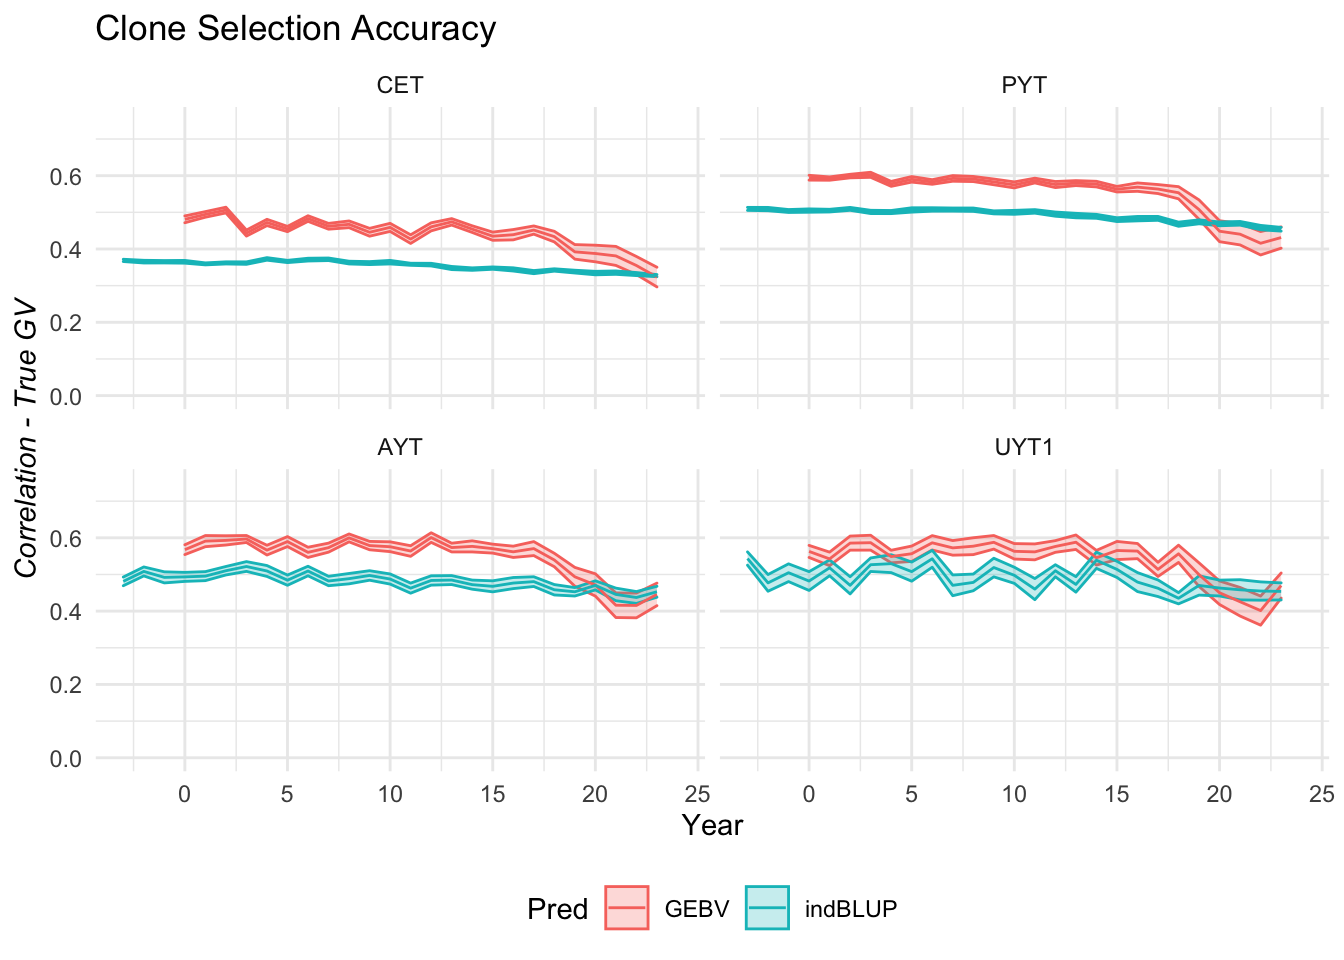
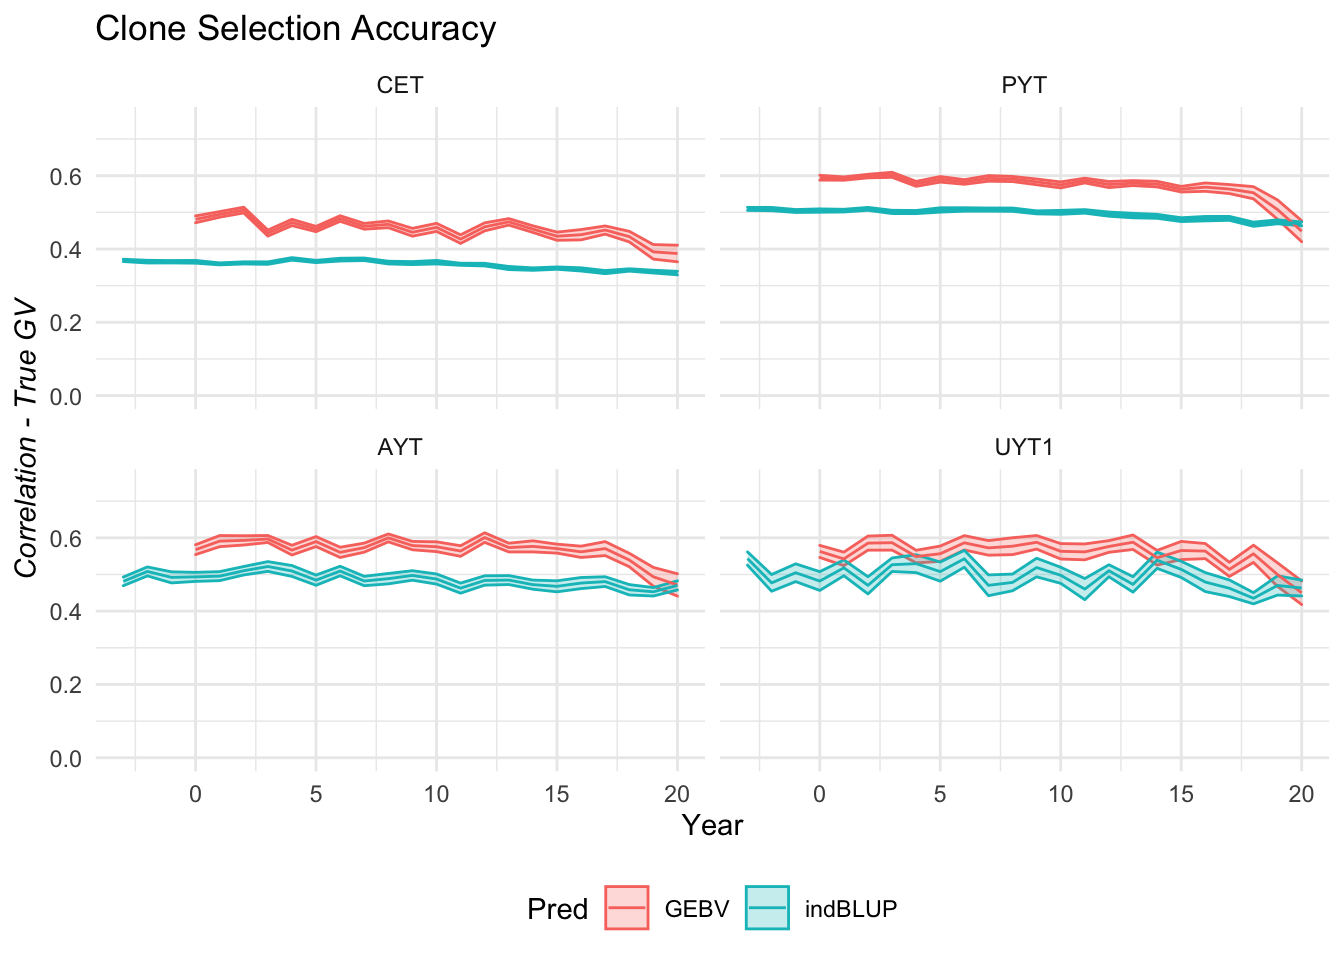
update script for the graphs

diff --git a/docs/VD_Optimization.html b/docs/VD_Optimization.html
@@ -428,7 +428,7 @@ div.tocify {
 <div class="tab-content">
 <div id="summary" class="tab-pane fade in active">
 <p>
-<strong>Last updated:</strong> 2022-06-17
+<strong>Last updated:</strong> 2022-06-29
 </p>
 <p>
 <strong>Checks:</strong> <span class="glyphicon glyphicon-ok text-success" aria-hidden="true"></span> 6 <span class="glyphicon glyphicon-exclamation-sign text-danger" aria-hidden="true"></span> 1
@@ -519,16 +519,16 @@ This reproducible <a href="https://rmarkdown.rstudio.com">R Markdown</a> analysi
 <div class="panel panel-default">
 <div class="panel-heading">
 <p class="panel-title">
-<a data-toggle="collapse" data-parent="#workflowr-checks" href="#strongRepositoryversionstrongahrefhttpsgithubcomLucianoRogerioCassavaBreedingSimtreee9e11cdec5f778982d9bcab7d2720d18ca3455d2targetblanke9e11cda"> <span class="glyphicon glyphicon-ok text-success" aria-hidden="true"></span> <strong>Repository version:</strong> <a href="https://github.com/LucianoRogerio/CassavaBreedingSim/tree/e9e11cdec5f778982d9bcab7d2720d18ca3455d2" target="_blank">e9e11cd</a> </a>
+<a data-toggle="collapse" data-parent="#workflowr-checks" href="#strongRepositoryversionstrongahrefhttpsgithubcomLucianoRogerioCassavaBreedingSimtree392b5923671da4e54f0bdf135c3c9c689f458655targetblank392b592a"> <span class="glyphicon glyphicon-ok text-success" aria-hidden="true"></span> <strong>Repository version:</strong> <a href="https://github.com/LucianoRogerio/CassavaBreedingSim/tree/392b5923671da4e54f0bdf135c3c9c689f458655" target="_blank">392b592</a> </a>
 </p>
 </div>
[2 lines of base64/hex data omitted]
 <div class="panel-body">
 <p>
 Great! You are using Git for version control. Tracking code development and connecting the code version to the results is critical for reproducibility.
 </p>
 <p>
-The results in this page were generated with repository version <a href="https://github.com/LucianoRogerio/CassavaBreedingSim/tree/e9e11cdec5f778982d9bcab7d2720d18ca3455d2" target="_blank">e9e11cd</a>. See the <em>Past versions</em> tab to see a history of the changes made to the R Markdown and HTML files.
+The results in this page were generated with repository version <a href="https://github.com/LucianoRogerio/CassavaBreedingSim/tree/392b5923671da4e54f0bdf135c3c9c689f458655" target="_blank">392b592</a>. See the <em>Past versions</em> tab to see a history of the changes made to the R Markdown and HTML files.
 </p>
 <p>
 Note that you need to be careful to ensure that all relevant files for the analysis have been committed to Git prior to generating the results (you can use <code>wflow_publish</code> or <code>wflow_git_commit</code>). workflowr only checks the R Markdown file, but you know if there are other scripts or data files that it depends on. Below is the status of the Git repository when the results were generated:
@@ -542,27 +542,10 @@ Ignored files:
     Ignored:    output/.Rhistory
     Ignored:    output/DataSimPlotIITA1_3_Par.rds
 
-Untracked files:
-    Untracked:  output/DataSimPlotIITA1_3_AccCl.rds
-    Untracked:  output/DataSimPlotIITA1_3_AccPg.rds
-    Untracked:  output/Figures/AccuracyCl.tiff
-
 Unstaged changes:
     Modified:   analysis/BurnIn_IITA.Rmd
-    Modified:   analysis/IITABS.Rmd
     Modified:   analysis/VD_Optimization.Rmd
-    Modified:   analysis/graphics.Rmd
-    Deleted:    output/DataSimPlotIITA1_3_Acc.rds
-    Modified:   output/DataSimPlotIITA1_3_F1.rds
-    Modified:   output/DataSimPlotIITA1_3_UYT2.rds
-    Modified:   output/Figures/Accuracy.tiff
-    Modified:   output/Figures/F1 graph 1 to 3.tiff
-    Modified:   output/Figures/UYT2 graph 1 to 3.tiff
-    Deleted:    output/ParentOriginGS_1Yr.csv
-    Deleted:    output/ParentOriginGS_2Yrs.csv
-    Deleted:    output/ParentOriginGS_3Yrs.csv
-    Deleted:    output/ParentOriginPS.csv
-    Deleted:    output/ParentOriginPSPlus.csv
+    Modified:   code/runSchemesPostBurnIn.R
 
 </code></pre>
 <p>
@@ -601,6 +584,40 @@ Message
 </tr>
 </thead>
 <tbody>
+<tr>
+<td>
+Rmd
+</td>
+<td>
+<a href="https://github.com/LucianoRogerio/CassavaBreedingSim/blob/94fd215b6753b669d435f3e10f299fe9bb5b0ee5/analysis/VD_Optimization.Rmd" target="_blank">94fd215</a>
+</td>
+<td>
+LucianoRogerio
+</td>
+<td>
+2022-06-26
+</td>
+<td>
+Update Simulation results
+</td>
+</tr>
+<tr>
+<td>
+html
+</td>
+<td>
+<a href="https://rawcdn.githack.com/LucianoRogerio/CassavaBreedingSim/94fd215b6753b669d435f3e10f299fe9bb5b0ee5/docs/VD_Optimization.html" target="_blank">94fd215</a>
+</td>
+<td>
+LucianoRogerio
+</td>
+<td>
+2022-06-26
+</td>
+<td>
+Update Simulation results
+</td>
+</tr>
 <tr>
 <td>
 Rmd
@@ -1738,7 +1755,7 @@ IITAScheme &lt;- read.table(here::here(&quot;data&quot;, &quot;baselineScheme - 
                          sep = &quot;;&quot;, dec = &quot;.&quot;, header = T)
 IITAScheme %&gt;% reactable()</code></pre>
 <div id="htmlwidget-3624b11195a02e6dab7a" class="reactable html-widget" style="width:auto;height:auto;"></div>
-<script type="application/json" data-for="htmlwidget-3624b11195a02e6dab7a">{"x":{"tag":{"name":"Reactable","attribs":{"data":{"stageNames":["SDN","CET","PYT","AYT","UYT1","UYT2"],"nEntries":[10000,2500,800,80,30,30],"nLocs":[1,1,2,3,5,5],"nReps":[1,1,3,3,3,3],"nChks":[5,5,4,2,2,2],"entryToChkRatio":[1500,50,25,20,20,20],"trainingPopCycles":[20,20,20,20,20,20],"errVars":[10000,3500,2500,2000,1800,1800],"PlantsPerPlot":[1,10,10,25,42,42]},"columns":[{"accessor":"stageNames","name":"stageNames","type":"character"},{"accessor":"nEntries","name":"nEntries","type":"numeric"},{"accessor":"nLocs","name":"nLocs","type":"numeric"},{"accessor":"nReps","name":"nReps","type":"numeric"},{"accessor":"nChks","name":"nChks","type":"numeric"},{"accessor":"entryToChkRatio","name":"entryToChkRatio","type":"numeric"},{"accessor":"trainingPopCycles","name":"trainingPopCycles","type":"numeric"},{"accessor":"errVars","name":"errVars","type":"numeric"},{"accessor":"PlantsPerPlot","name":"PlantsPerPlot","type":"numeric"}],"defaultPageSize":10,"paginationType":"numbers","showPageInfo":true,"minRows":1,"dataKey":"d425645feddce2942941dfc27a950f86"},"children":[]},"class":"reactR_markup"},"evals":[],"jsHooks":[]}</script>
+<script type="application/json" data-for="htmlwidget-3624b11195a02e6dab7a">{"x":{"tag":{"name":"Reactable","attribs":{"data":{"stageNames":["SDN","CET","PYT","AYT","UYT1","UYT2","NCRP"],"nEntries":[10000,2500,800,80,30,30,4],"nLocs":[1,1,2,3,5,5,5],"nReps":[1,1,3,3,3,3,3],"nChks":[5,5,4,2,2,2,2],"entryToChkRatio":[1500,50,25,20,20,20,20],"trainingPopCycles":[20,20,20,20,20,20,20],"errVars":[10000,3500,2500,2000,1800,1800,1800],"PlantsPerPlot":[1,10,10,25,42,42,42]},"columns":[{"accessor":"stageNames","name":"stageNames","type":"character"},{"accessor":"nEntries","name":"nEntries","type":"numeric"},{"accessor":"nLocs","name":"nLocs","type":"numeric"},{"accessor":"nReps","name":"nReps","type":"numeric"},{"accessor":"nChks","name":"nChks","type":"numeric"},{"accessor":"entryToChkRatio","name":"entryToChkRatio","type":"numeric"},{"accessor":"trainingPopCycles","name":"trainingPopCycles","type":"numeric"},{"accessor":"errVars","name":"errVars","type":"numeric"},{"accessor":"PlantsPerPlot","name":"PlantsPerPlot","type":"numeric"}],"defaultPageSize":10,"paginationType":"numbers","showPageInfo":true,"minRows":1,"dataKey":"521030f8fc06593411de1d03db95389f"},"children":[]},"class":"reactR_markup"},"evals":[],"jsHooks":[]}</script>
 <p>Simulations for IITA <a href="IITABS.html">breeding Scheme</a></p>
 </div>
 <div id="iita-1º-alternative-breeding-scheme-five-years-vdp" class="section level3">
@@ -1748,7 +1765,7 @@ IITAScheme &lt;- read.table(here::here(&quot;data&quot;, &quot;baselineScheme - 
                          sep = &quot;;&quot;, dec = &quot;.&quot;, header = T)
 IITAScheme %&gt;% reactable()</code></pre>
 <div id="htmlwidget-5728cd89669a869ad063" class="reactable html-widget" style="width:auto;height:auto;"></div>
-<script type="application/json" data-for="htmlwidget-5728cd89669a869ad063">{"x":{"tag":{"name":"Reactable","attribs":{"data":{"stageNames":["SDN","CET","PYT","AYT","UYT1"],"nEntries":[10208,2604,834,84,32],"nLocs":[1,1,2,3,5],"nReps":[1,1,3,3,3],"nChks":[5,5,4,2,2],"entryToChkRatio":[1500,50,25,20,20],"trainingPopCycles":[20,20,20,20,20],"errVars":[10000,3500,2500,2000,1800],"PlantsPerPlot":[1,10,10,25,42]},"columns":[{"accessor":"stageNames","name":"stageNames","type":"character"},{"accessor":"nEntries","name":"nEntries","type":"numeric"},{"accessor":"nLocs","name":"nLocs","type":"numeric"},{"accessor":"nReps","name":"nReps","type":"numeric"},{"accessor":"nChks","name":"nChks","type":"numeric"},{"accessor":"entryToChkRatio","name":"entryToChkRatio","type":"numeric"},{"accessor":"trainingPopCycles","name":"trainingPopCycles","type":"numeric"},{"accessor":"errVars","name":"errVars","type":"numeric"},{"accessor":"PlantsPerPlot","name":"PlantsPerPlot","type":"numeric"}],"defaultPageSize":10,"paginationType":"numbers","showPageInfo":true,"minRows":1,"dataKey":"7cabb97f79e78960c2d4cd9722da5e5c"},"children":[]},"class":"reactR_markup"},"evals":[],"jsHooks":[]}</script>
+<script type="application/json" data-for="htmlwidget-5728cd89669a869ad063">{"x":{"tag":{"name":"Reactable","attribs":{"data":{"stageNames":["SDN","CET","PYT","AYT","UYT1","NCRP"],"nEntries":[10208,2604,834,84,32,4],"nLocs":[1,1,2,3,5,5],"nReps":[1,1,3,3,3,3],"nChks":[5,5,4,2,2,2],"entryToChkRatio":[1500,50,25,20,20,20],"trainingPopCycles":[20,20,20,20,20,20],"errVars":[10000,3500,2500,2000,1800,1800],"PlantsPerPlot":[1,10,10,25,42,42]},"columns":[{"accessor":"stageNames","name":"stageNames","type":"character"},{"accessor":"nEntries","name":"nEntries","type":"numeric"},{"accessor":"nLocs","name":"nLocs","type":"numeric"},{"accessor":"nReps","name":"nReps","type":"numeric"},{"accessor":"nChks","name":"nChks","type":"numeric"},{"accessor":"entryToChkRatio","name":"entryToChkRatio","type":"numeric"},{"accessor":"trainingPopCycles","name":"trainingPopCycles","type":"numeric"},{"accessor":"errVars","name":"errVars","type":"numeric"},{"accessor":"PlantsPerPlot","name":"PlantsPerPlot","type":"numeric"}],"defaultPageSize":10,"paginationType":"numbers","showPageInfo":true,"minRows":1,"dataKey":"b96e6834d58a8865ba166af0ed744ed9"},"children":[]},"class":"reactR_markup"},"evals":[],"jsHooks":[]}</script>
 <p>Simulations for IITA <a href="NVDP1.html">1º alternative breeding Scheme</a> (Five years VDP)</p>
 </div>
 <div id="iita-breeding-scheme-2º-alternative-four-years-vdp" class="section level3">
@@ -1758,7 +1775,7 @@ IITAScheme &lt;- read.table(here::here(&quot;data&quot;, &quot;baselineScheme - 
                          sep = &quot;;&quot;, dec = &quot;.&quot;, header = T)
 IITAScheme %&gt;% reactable()</code></pre>
 <div id="htmlwidget-6c33c21eda9f1916c957" class="reactable html-widget" style="width:auto;height:auto;"></div>
-<script type="application/json" data-for="htmlwidget-6c33c21eda9f1916c957">{"x":{"tag":{"name":"Reactable","attribs":{"data":{"stageNames":["SDN","CET","PYT","AYT"],"nEntries":[11268,2817,902,90],"nLocs":[1,1,2,3],"nReps":[1,1,3,3],"nChks":[5,5,4,2],"entryToChkRatio":[1500,50,25,20],"trainingPopCycles":[20,20,20,20],"errVars":[10000,3500,2500,2000],"PlantsPerPlot":[1,10,10,25]},"columns":[{"accessor":"stageNames","name":"stageNames","type":"character"},{"accessor":"nEntries","name":"nEntries","type":"numeric"},{"accessor":"nLocs","name":"nLocs","type":"numeric"},{"accessor":"nReps","name":"nReps","type":"numeric"},{"accessor":"nChks","name":"nChks","type":"numeric"},{"accessor":"entryToChkRatio","name":"entryToChkRatio","type":"numeric"},{"accessor":"trainingPopCycles","name":"trainingPopCycles","type":"numeric"},{"accessor":"errVars","name":"errVars","type":"numeric"},{"accessor":"PlantsPerPlot","name":"PlantsPerPlot","type":"numeric"}],"defaultPageSize":10,"paginationType":"numbers","showPageInfo":true,"minRows":1,"dataKey":"740e1aa63b6e38ae4cc1f208983b94cc"},"children":[]},"class":"reactR_markup"},"evals":[],"jsHooks":[]}</script>
+<script type="application/json" data-for="htmlwidget-6c33c21eda9f1916c957">{"x":{"tag":{"name":"Reactable","attribs":{"data":{"stageNames":["SDN","CET","PYT","AYT","NCRP"],"nEntries":[11268,2817,902,90,4],"nLocs":[1,1,2,3,5],"nReps":[1,1,3,3,3],"nChks":[5,5,4,2,2],"entryToChkRatio":[1500,50,25,20,20],"trainingPopCycles":[20,20,20,20,20],"errVars":[10000,3500,2500,2000,1800],"PlantsPerPlot":[1,10,10,25,42]},"columns":[{"accessor":"stageNames","name":"stageNames","type":"character"},{"accessor":"nEntries","name":"nEntries","type":"numeric"},{"accessor":"nLocs","name":"nLocs","type":"numeric"},{"accessor":"nReps","name":"nReps","type":"numeric"},{"accessor":"nChks","name":"nChks","type":"numeric"},{"accessor":"entryToChkRatio","name":"entryToChkRatio","type":"numeric"},{"accessor":"trainingPopCycles","name":"trainingPopCycles","type":"numeric"},{"accessor":"errVars","name":"errVars","type":"numeric"},{"accessor":"PlantsPerPlot","name":"PlantsPerPlot","type":"numeric"}],"defaultPageSize":10,"paginationType":"numbers","showPageInfo":true,"minRows":1,"dataKey":"3f33146cc98fd2cbaf27a2974c29dd90"},"children":[]},"class":"reactR_markup"},"evals":[],"jsHooks":[]}</script>
 <p>Simulations for IITA <a href="NVDP2.html">2º alternative breeding Scheme</a> (Four years VDP)</p>
 </div>
 <div id="simulations-of-iita-breeding-scheme-with-clones-selected-as-parent-from-different-years-as-candidate" class="section level3">
@@ -1825,6 +1842,17 @@ Date
 <tbody>
 <tr>
 <td>
+<a href="https://github.com/LucianoRogerio/CassavaBreedingSim/blob/94fd215b6753b669d435f3e10f299fe9bb5b0ee5/docs/figure/VD_Optimization.Rmd/Figure 1 Parents IITA Breeding Scheme 1 to 3 Yrs-1.png" target="_blank">94fd215</a>
+</td>
+<td>
+LucianoRogerio
+</td>
+<td>
+2022-06-26
+</td>
+</tr>
+<tr>
+<td>
 <a href="https://github.com/LucianoRogerio/CassavaBreedingSim/blob/e9e11cdec5f778982d9bcab7d2720d18ca3455d2/docs/figure/VD_Optimization.Rmd/Figure 1 Parents IITA Breeding Scheme 1 to 3 Yrs-1.png" target="_blank">e9e11cd</a>
 </td>
 <td>
@@ -1886,6 +1914,17 @@ Date
 </tr>
 </thead>
 <tbody>
+<tr>
+<td>
+<a href="https://github.com/LucianoRogerio/CassavaBreedingSim/blob/94fd215b6753b669d435f3e10f299fe9bb5b0ee5/docs/figure/VD_Optimization.Rmd/Origin Parents-1.png" target="_blank">94fd215</a>
+</td>
+<td>
+LucianoRogerio
+</td>
+<td>
+2022-06-26
+</td>
+</tr>
 <tr>
 <td>
 <a href="https://github.com/LucianoRogerio/CassavaBreedingSim/blob/e9e11cdec5f778982d9bcab7d2720d18ca3455d2/docs/figure/VD_Optimization.Rmd/Origin Parents-1.png" target="_blank">e9e11cd</a>
@@ -1995,6 +2034,17 @@ Date
 <tbody>
 <tr>
 <td>
+<a href="https://github.com/LucianoRogerio/CassavaBreedingSim/blob/94fd215b6753b669d435f3e10f299fe9bb5b0ee5/docs/figure/VD_Optimization.Rmd/Figure 1 F1 IITA Breeding Scheme 1 to 3 Yrs-1.png" target="_blank">94fd215</a>
+</td>
+<td>
+LucianoRogerio
+</td>
+<td>
+2022-06-26
+</td>
+</tr>
+<tr>
+<td>
 <a href="https://github.com/LucianoRogerio/CassavaBreedingSim/blob/e9e11cdec5f778982d9bcab7d2720d18ca3455d2/docs/figure/VD_Optimization.Rmd/Figure 1 F1 IITA Breeding Scheme 1 to 3 Yrs-1.png" target="_blank">e9e11cd</a>
 </td>
 <td>
@@ -2067,6 +2117,17 @@ Date
 </tr>
 </thead>
 <tbody>
+<tr>
+<td>
+<a href="https://github.com/LucianoRogerio/CassavaBreedingSim/blob/94fd215b6753b669d435f3e10f299fe9bb5b0ee5/docs/figure/VD_Optimization.Rmd/Figure 1 UYT2 IITA Breeding Scheme 1 to 3 Yrs-1.png" target="_blank">94fd215</a>
+</td>
+<td>
+LucianoRogerio
+</td>
+<td>
+2022-06-26
+</td>
+</tr>
 <tr>
 <td>
 <a href="https://github.com/LucianoRogerio/CassavaBreedingSim/blob/e9e11cdec5f778982d9bcab7d2720d18ca3455d2/docs/figure/VD_Optimization.Rmd/Figure 1 UYT2 IITA Breeding Scheme 1 to 3 Yrs-1.png" target="_blank">e9e11cd</a>
@@ -2142,6 +2203,17 @@ Date
 <tbody>
 <tr>
 <td>
+<a href="https://github.com/LucianoRogerio/CassavaBreedingSim/blob/94fd215b6753b669d435f3e10f299fe9bb5b0ee5/docs/figure/VD_Optimization.Rmd/Accuracies for gebv-1.png" target="_blank">94fd215</a>
+</td>
+<td>
+LucianoRogerio
+</td>
+<td>
+2022-06-26
+</td>
+</tr>
+<tr>
+<td>
 <a href="https://github.com/LucianoRogerio/CassavaBreedingSim/blob/e9e11cdec5f778982d9bcab7d2720d18ca3455d2/docs/figure/VD_Optimization.Rmd/Accuracies for gebv-1.png" target="_blank">e9e11cd</a>
 </td>
 <td>
@@ -2192,6 +2264,17 @@ Date
 </tr>
 </thead>
 <tbody>
+<tr>
+<td>
+<a href="https://github.com/LucianoRogerio/CassavaBreedingSim/blob/94fd215b6753b669d435f3e10f299fe9bb5b0ee5/docs/figure/VD_Optimization.Rmd/Accuracies for gegv-1.png" target="_blank">94fd215</a>
+</td>
+<td>
+LucianoRogerio
+</td>
+<td>
+2022-06-26
+</td>
+</tr>
 <tr>
 <td>
 <a href="https://github.com/LucianoRogerio/CassavaBreedingSim/blob/e9e11cdec5f778982d9bcab7d2720d18ca3455d2/docs/figure/VD_Optimization.Rmd/Accuracies for gegv-1.png" target="_blank">e9e11cd</a>
@@ -2255,17 +2338,17 @@ loaded via a namespace (and not attached):
 [21] httpuv_1.6.5      reactR_0.4.4      pkgconfig_2.0.3   broom_0.8.0      
 [25] haven_2.5.0       scales_1.2.0      whisker_0.4       later_1.3.0      
 [29] tzdb_0.3.0        git2r_0.30.1      generics_0.1.2    farver_2.1.0     
-[33] car_3.0-13        ellipsis_0.3.2    withr_2.5.0       cli_3.3.0        
+[33] car_3.1-0         ellipsis_0.3.2    withr_2.5.0       cli_3.3.0        
 [37] magrittr_2.0.3    crayon_1.5.1      readxl_1.4.0      evaluate_0.15    
 [41] fs_1.5.2          fansi_1.0.3       rstatix_0.7.0     xml2_1.3.3       
 [45] tools_4.1.3       hms_1.1.1         lifecycle_1.0.1   munsell_0.5.0    
-[49] reprex_2.0.1      compiler_4.1.3    jquerylib_0.1.4   rlang_1.0.2      
+[49] reprex_2.0.1      compiler_4.1.3    jquerylib_0.1.4   rlang_1.0.3      
 [53] grid_4.1.3        rstudioapi_0.13   htmlwidgets_1.5.4 crosstalk_1.2.0  
 [57] labeling_0.4.2    rmarkdown_2.14    gtable_0.3.0      abind_1.4-5      
-[61] DBI_1.1.2         R6_2.5.1          gridExtra_2.3     lubridate_1.8.0  
+[61] DBI_1.1.3         R6_2.5.1          gridExtra_2.3     lubridate_1.8.0  
 [65] knitr_1.39        fastmap_1.1.0     utf8_1.2.2        workflowr_1.7.0  
 [69] rprojroot_2.0.3   stringi_1.7.6     Rcpp_1.0.8.3      vctrs_0.4.1      
-[73] dbplyr_2.2.0      tidyselect_1.1.2  xfun_0.31        </code></pre>
+[73] dbplyr_2.2.1      tidyselect_1.1.2  xfun_0.31        </code></pre>
 </div>
 </div>
 </div>
